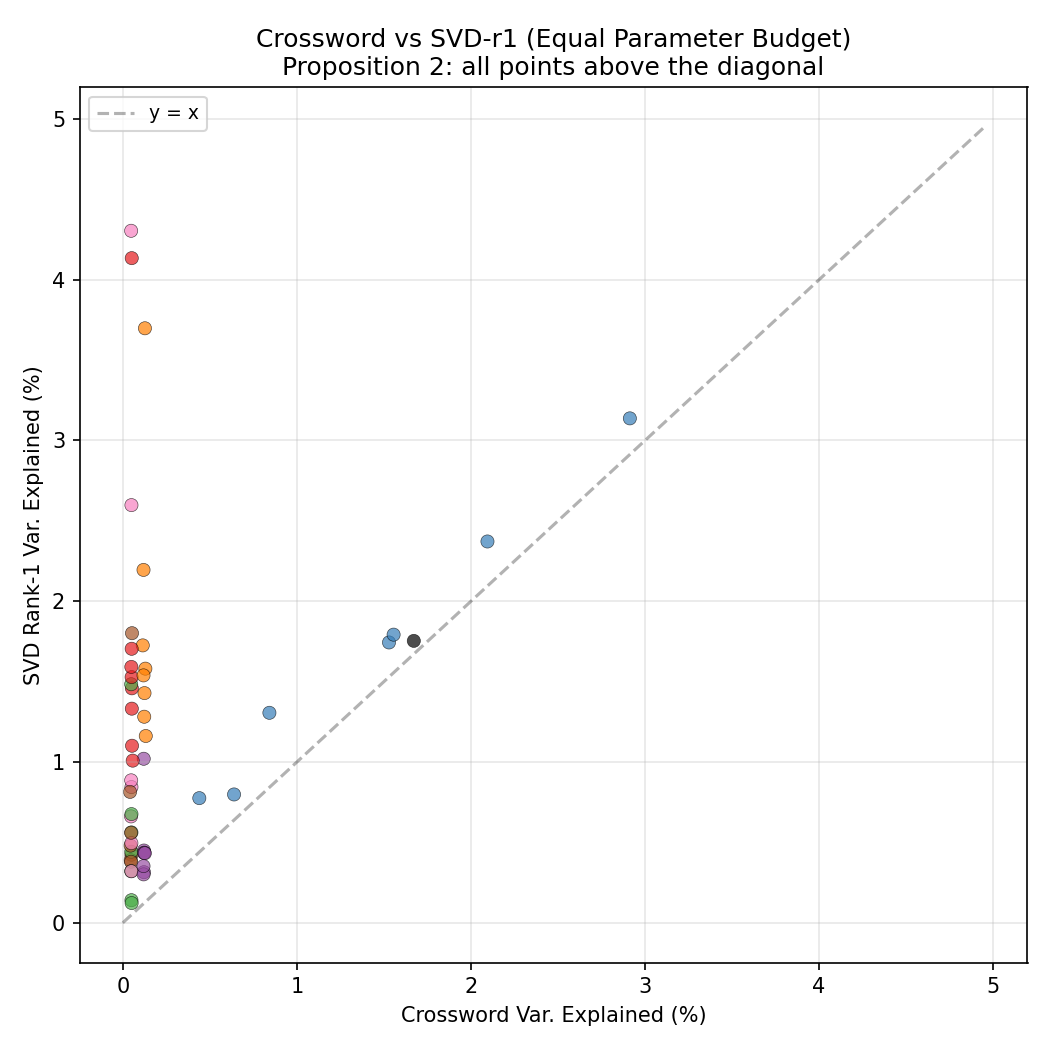
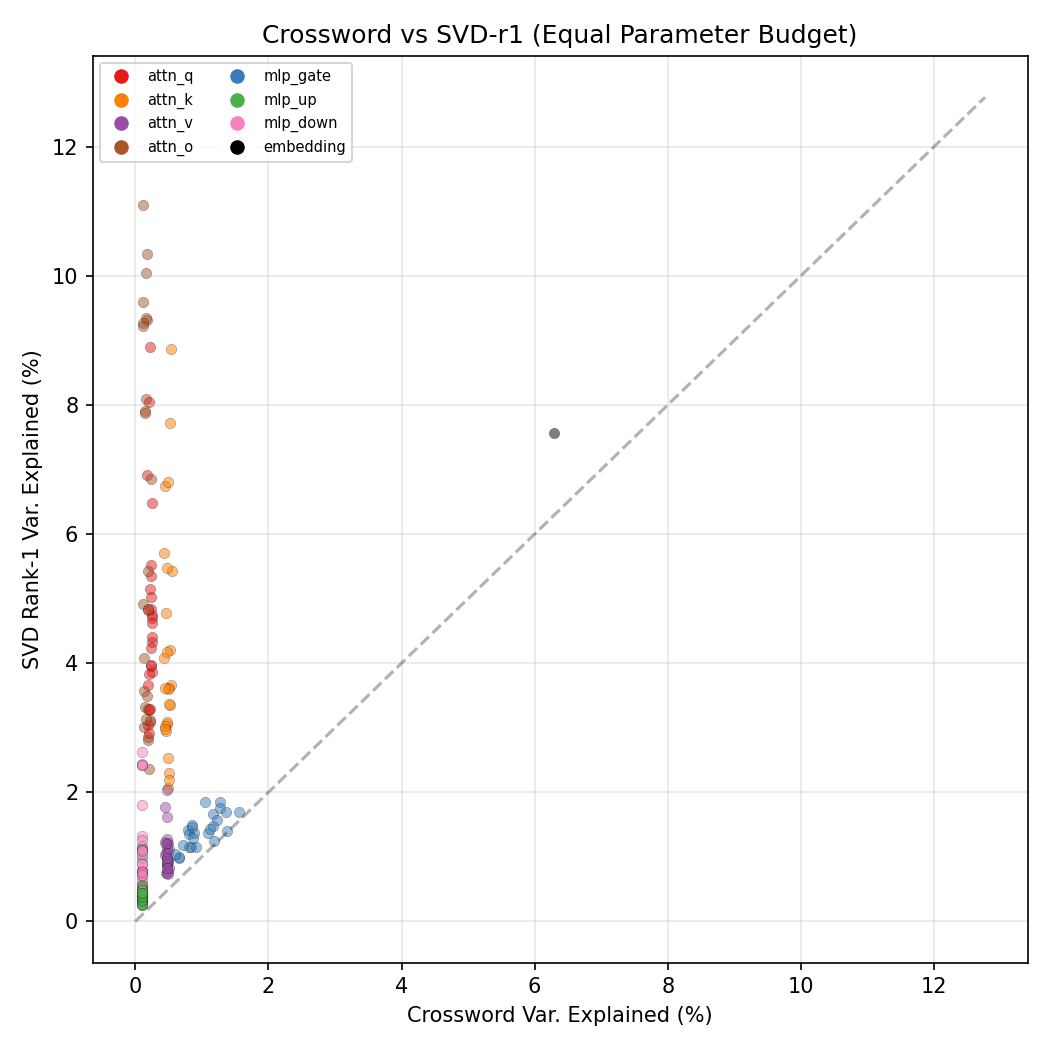
Add multi-model analysis and Gemma 3 support

diff --git a/crossword_diagnostic/run_analysis.py b/crossword_diagnostic/run_analysis.py
@@ -66,6 +66,14 @@ MODEL_REGISTRY = {
         "org": "Alibaba",
         "arch": "Dense, GQA",
     },
+    "gemma3-1b": {
+        "repo": "models--google--gemma-3-1b-pt",
+        "alt_repo": "models--unsloth--gemma-3-1b-pt",
+        "shard": "model-00001-of-*.safetensors",
+        "params": "1B",
+        "org": "Google",
+        "arch": "Dense, GQA, GeGLU",
+    },
     "stablelm2-1.6b": {
         "repo": "models--stabilityai--stablelm-2-1_6b",
         "shard": "model-00001-of-*.safetensors",
@@ -79,6 +87,13 @@ MODEL_REGISTRY = {
         "params": "4B",
         "org": "Alibaba",
         "arch": "Dense, GQA",
+    },
+    "gemma3-4b": {
+        "repo": "models--google--gemma-3-4b-pt",
+        "shard": "model-00001-of-*.safetensors",
+        "params": "4B",
+        "org": "Google",
+        "arch": "Dense, GQA, GeGLU",
     },
     "mistral-7b": {
         "repo": "models--mistralai--Mistral-7B-v0.1",
@@ -101,12 +116,26 @@ MODEL_REGISTRY = {
         "org": "Alibaba",
         "arch": "Dense, GQA",
     },
+    "gemma3-12b": {
+        "repo": "models--google--gemma-3-12b-pt",
+        "shard": "model-00001-of-*.safetensors",
+        "params": "12B",
+        "org": "Google",
+        "arch": "Dense, GQA, GeGLU",
+    },
     "phi-4-14b": {
         "repo": "models--microsoft--phi-4",
         "shard": "model-00001-of-*.safetensors",
         "params": "14B",
         "org": "Microsoft",
         "arch": "Dense, GQA",
+    },
+    "gemma3-27b": {
+        "repo": "models--google--gemma-3-27b-pt",
+        "shard": "model-00001-of-*.safetensors",
+        "params": "27B",
+        "org": "Google",
+        "arch": "Dense, GQA, GeGLU",
     },
 }
 
@@ -163,34 +192,44 @@ def find_shard_path(model_key: str) -> Optional[str]:
         return None
 
     info = MODEL_REGISTRY[model_key]
-    repo_dir = os.path.join(HF_CACHE, info["repo"])
 
-    if not os.path.isdir(repo_dir):
-        return None
+    # Try primary repo, then alt_repo if defined
+    repos_to_try = [info["repo"]]
+    if "alt_repo" in info:
+        repos_to_try.append(info["alt_repo"])
 
-    # Find the snapshot directory
-    snapshots_dir = os.path.join(repo_dir, "snapshots")
-    if not os.path.isdir(snapshots_dir):
-        return None
+    for repo_name in repos_to_try:
+        repo_dir = os.path.join(HF_CACHE, repo_name)
 
-    # Use the first (or only) snapshot
-    snapshots = sorted(os.listdir(snapshots_dir))
-    if not snapshots:
-        return None
+        if not os.path.isdir(repo_dir):
+            continue
 
-    snap_dir = os.path.join(snapshots_dir, snapshots[-1])
+        # Find the snapshot directory
+        snapshots_dir = os.path.join(repo_dir, "snapshots")
+        if not os.path.isdir(snapshots_dir):
+            continue
 
-    # Find the shard file
-    pattern = os.path.join(snap_dir, info["shard"])
-    matches = sorted(glob.glob(pattern))
+        # Use the first (or only) snapshot
+        snapshots = sorted(os.listdir(snapshots_dir))
+        if not snapshots:
+            continue
 
-    # Also try model.safetensors (single-file models)
-    if not matches:
-        single = os.path.join(snap_dir, "model.safetensors")
-        if os.path.exists(single):
-            matches = [single]
+        snap_dir = os.path.join(snapshots_dir, snapshots[-1])
 
-    return matches[0] if matches else None
+        # Find the shard file
+        pattern = os.path.join(snap_dir, info["shard"])
+        matches = sorted(glob.glob(pattern))
+
+        # Also try model.safetensors (single-file models)
+        if not matches:
+            single = os.path.join(snap_dir, "model.safetensors")
+            if os.path.exists(single):
+                matches = [single]
+
+        if matches:
+            return matches[0]
+
+    return None
 
 
 def load_shard(path: str) -> Dict[str, np.ndarray]:
